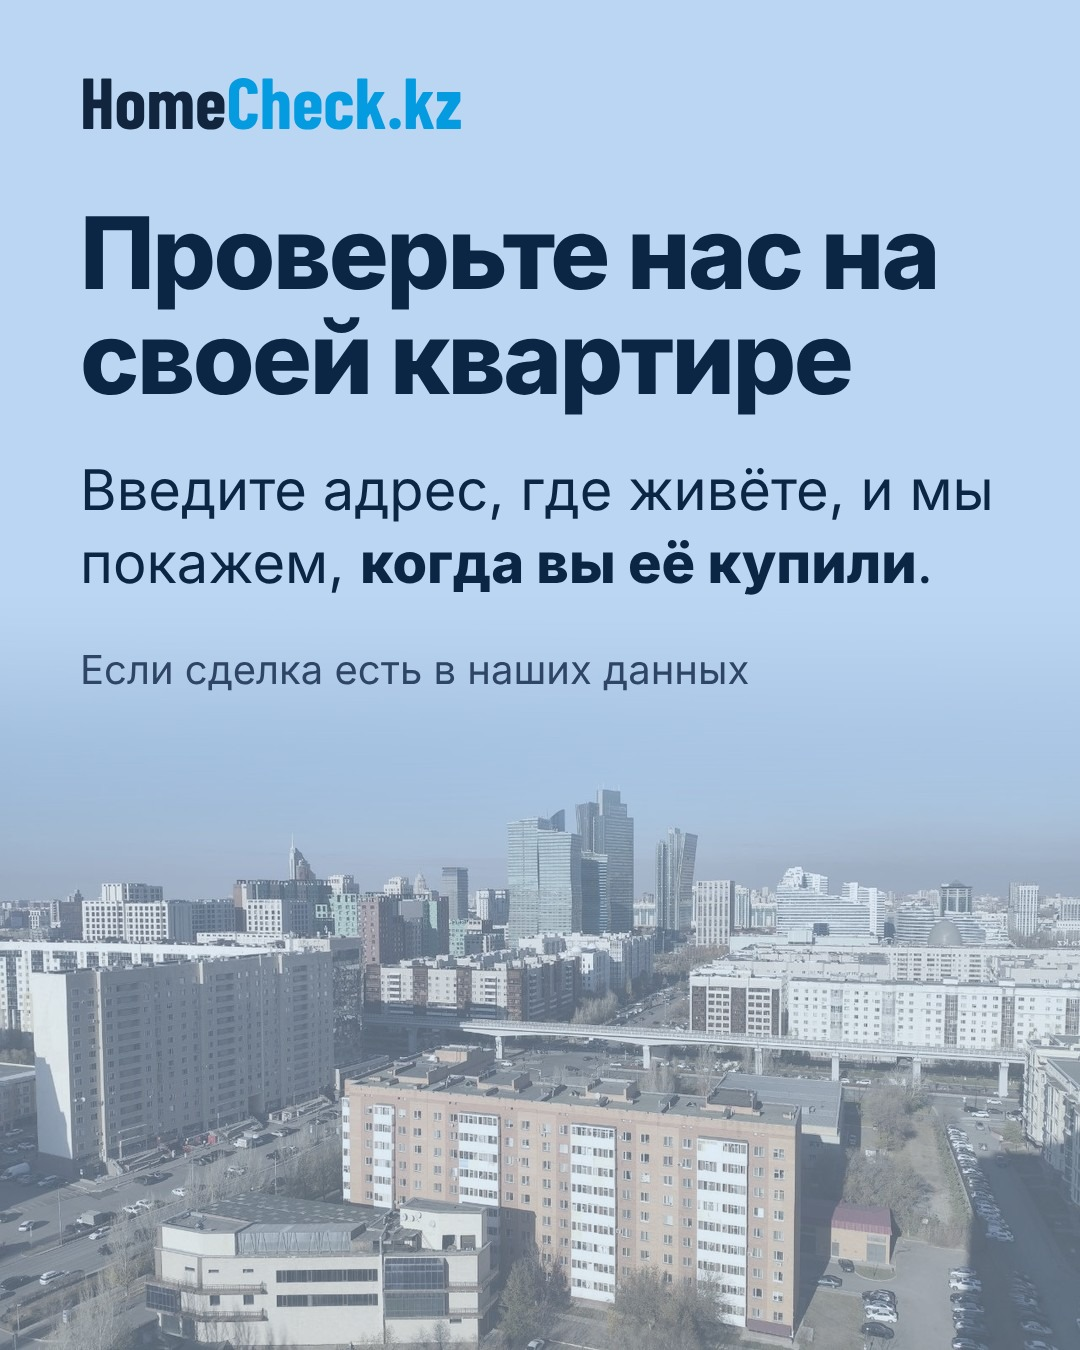
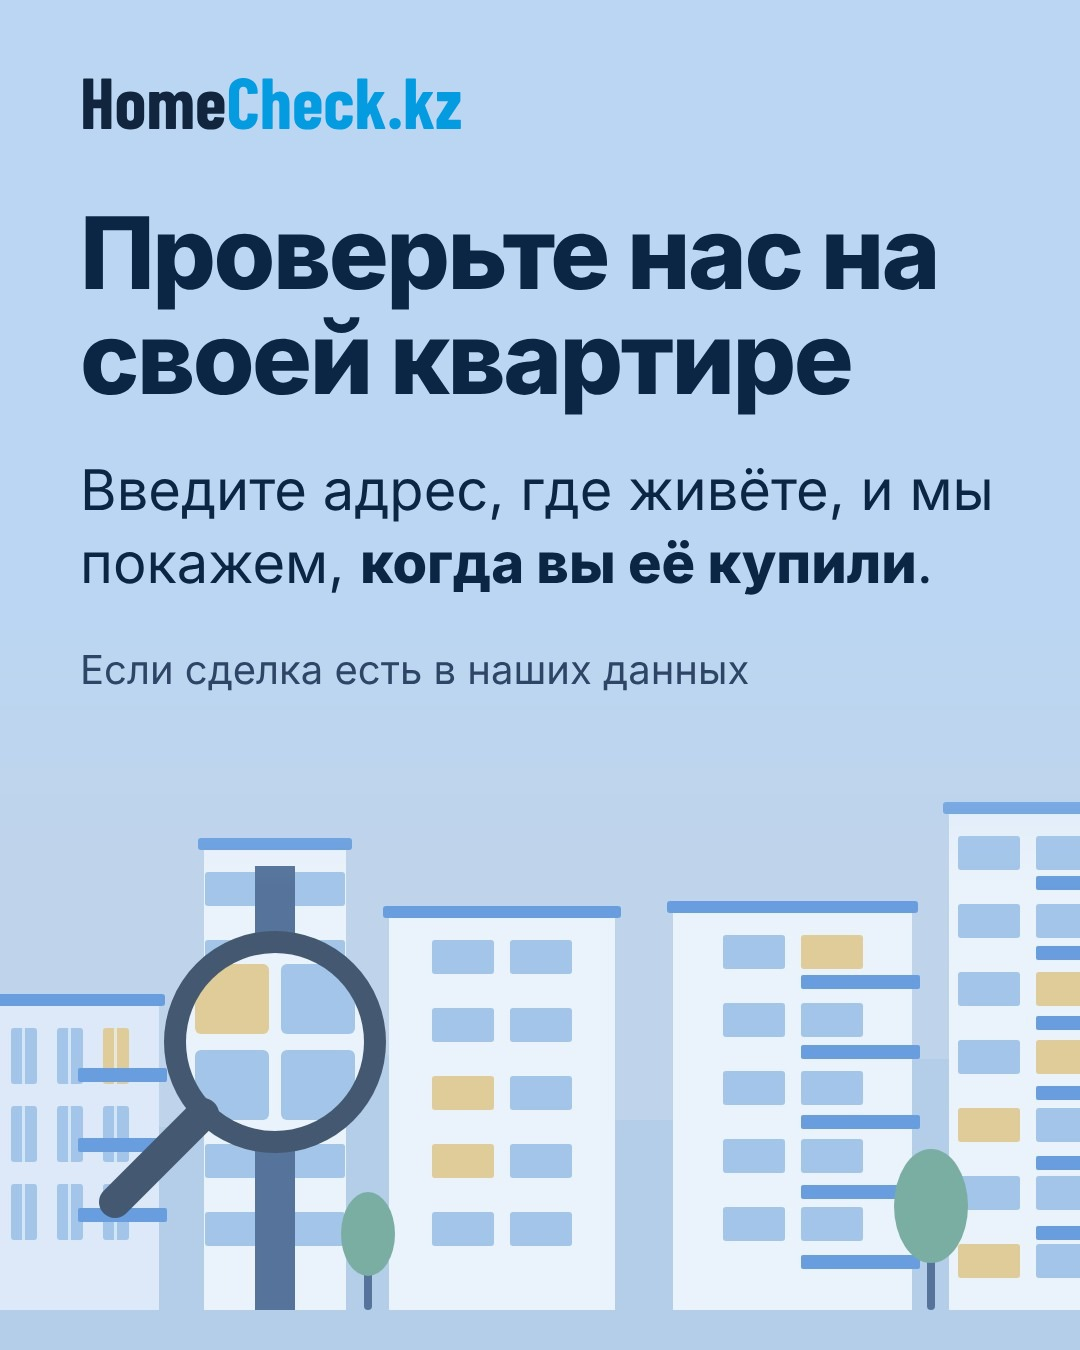
Post 2026-11-07: illustrations only
Claude-Session: https://claude.ai/code/session_01YPTRhbcfXRBnSeVtmn8ipe

diff --git a/posts/2026-11-07-pochemu-doveryat/build.py b/posts/2026-11-07-pochemu-doveryat/build.py
@@ -19,9 +19,9 @@ with sync_playwright() as p:
     S = [
         I(logo(64) + BOX + '<h1 class="t">Почему нашим данным можно доверять</h1>'
           '<span class="p acc">Листайте →</span></div>', scene(seed=7, magnifier=True)),
-        F(logo(64) + BOX + '<h2 class="t">Это не объявления</h2>'
+        I(logo(64) + BOX + '<h2 class="t">Это не объявления</h2>'
           '<p class="p">Мы берём цены из <b>зарегистрированных сделок</b>: за сколько квартиры реально купили.</p></div>',
-          'astana-khan-shatyr.jpg'),
+          scene(seed=14)),
         I(logo(64) + '<div class="box" style="top:250px;gap:28px">'
           '<p class="lb">Сделки с жильём регистрирует государство</p>'
           '<p class="num">27 096</p>'
@@ -30,9 +30,9 @@ with sync_playwright() as p:
         I(logo(64) + BOX + '<h2 class="t">Сравниваем с этим же домом</h2>'
           '<p class="p">Не со средней ценой по городу, а <b>с похожими квартирами в том же доме</b>.</p></div>',
           scene(seed=3, mirror=True)),
-        F(logo(64) + BOX + '<h2 class="t">Проверьте нас на своей квартире</h2>'
+        I(logo(64) + BOX + '<h2 class="t">Проверьте нас на своей квартире</h2>'
           '<p class="p">Введите адрес, где живёте, и мы покажем, <b>когда вы её купили</b>.</p>'
-          '<p class="lb">Если сделка есть в наших данных</p></div>', 'astana-panorama.jpg'),
+          '<p class="lb">Если сделка есть в наших данных</p></div>', scene(seed=5, magnifier=True, mirror=True)),
         I(logo(64) + BOX + '<h2 class="t">Проверьте квартиру до покупки</h2>'
           '<p class="p">Введите адрес на <b>homecheck.kz</b></p></div>', scene(seed=21)),
     ]
